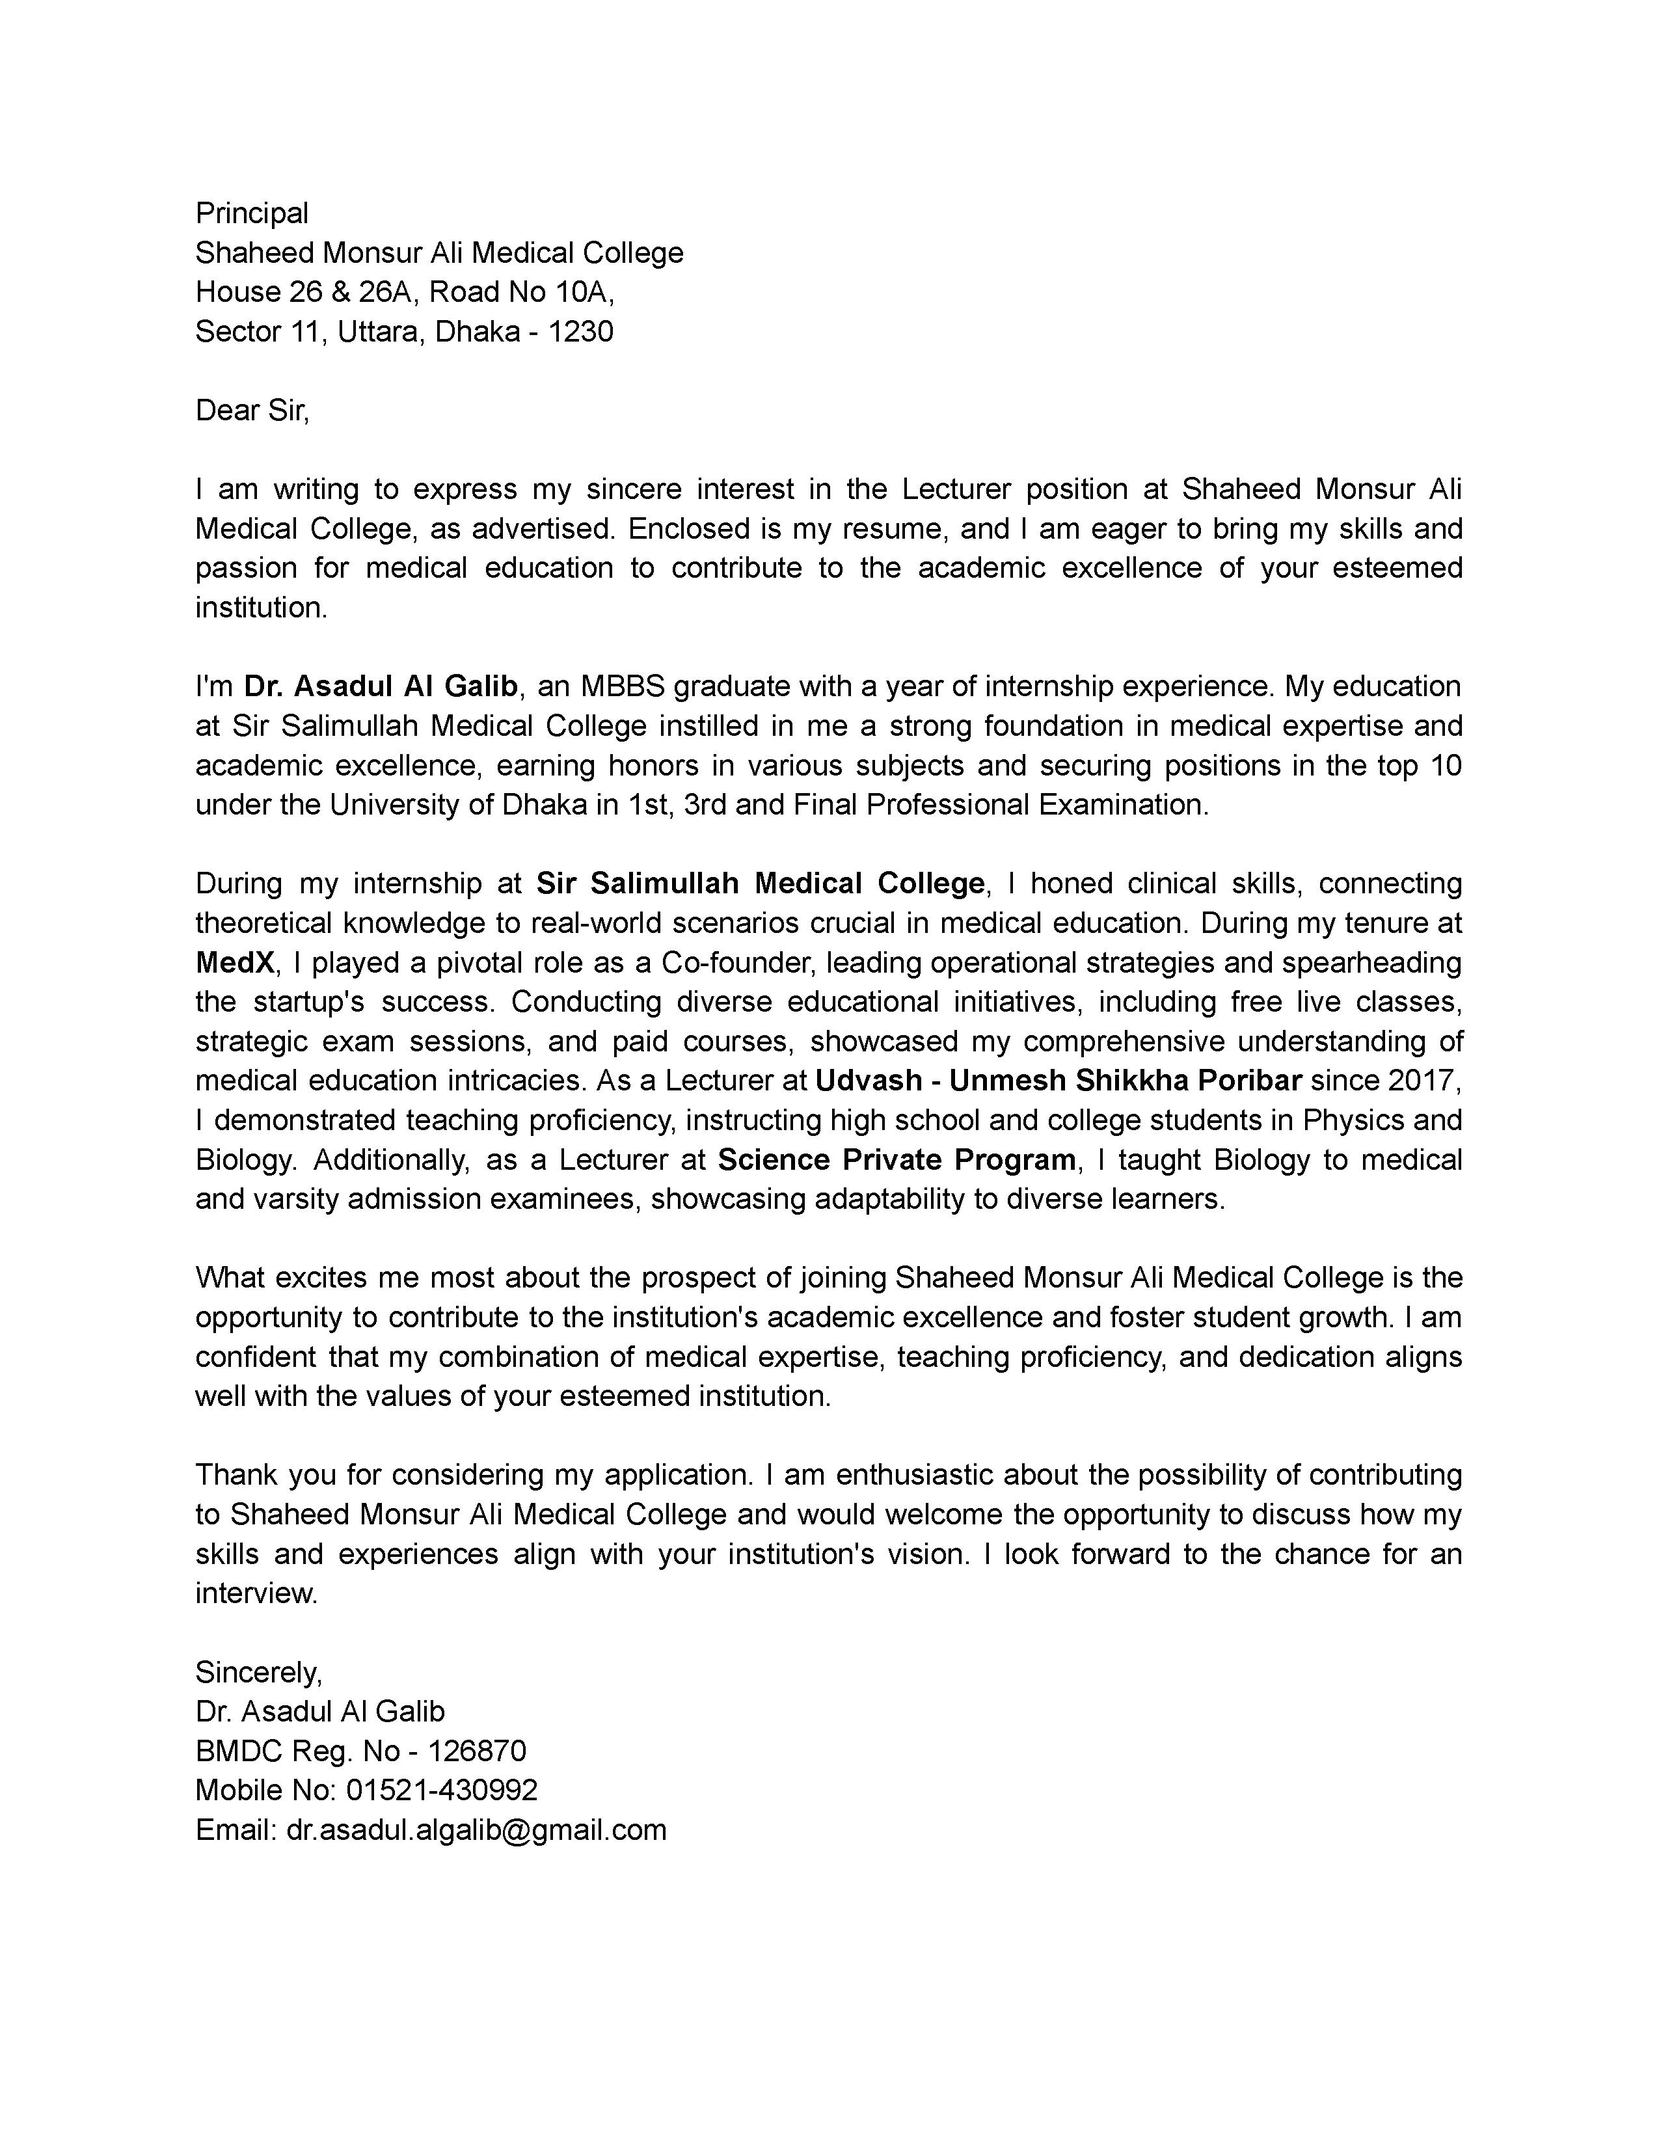
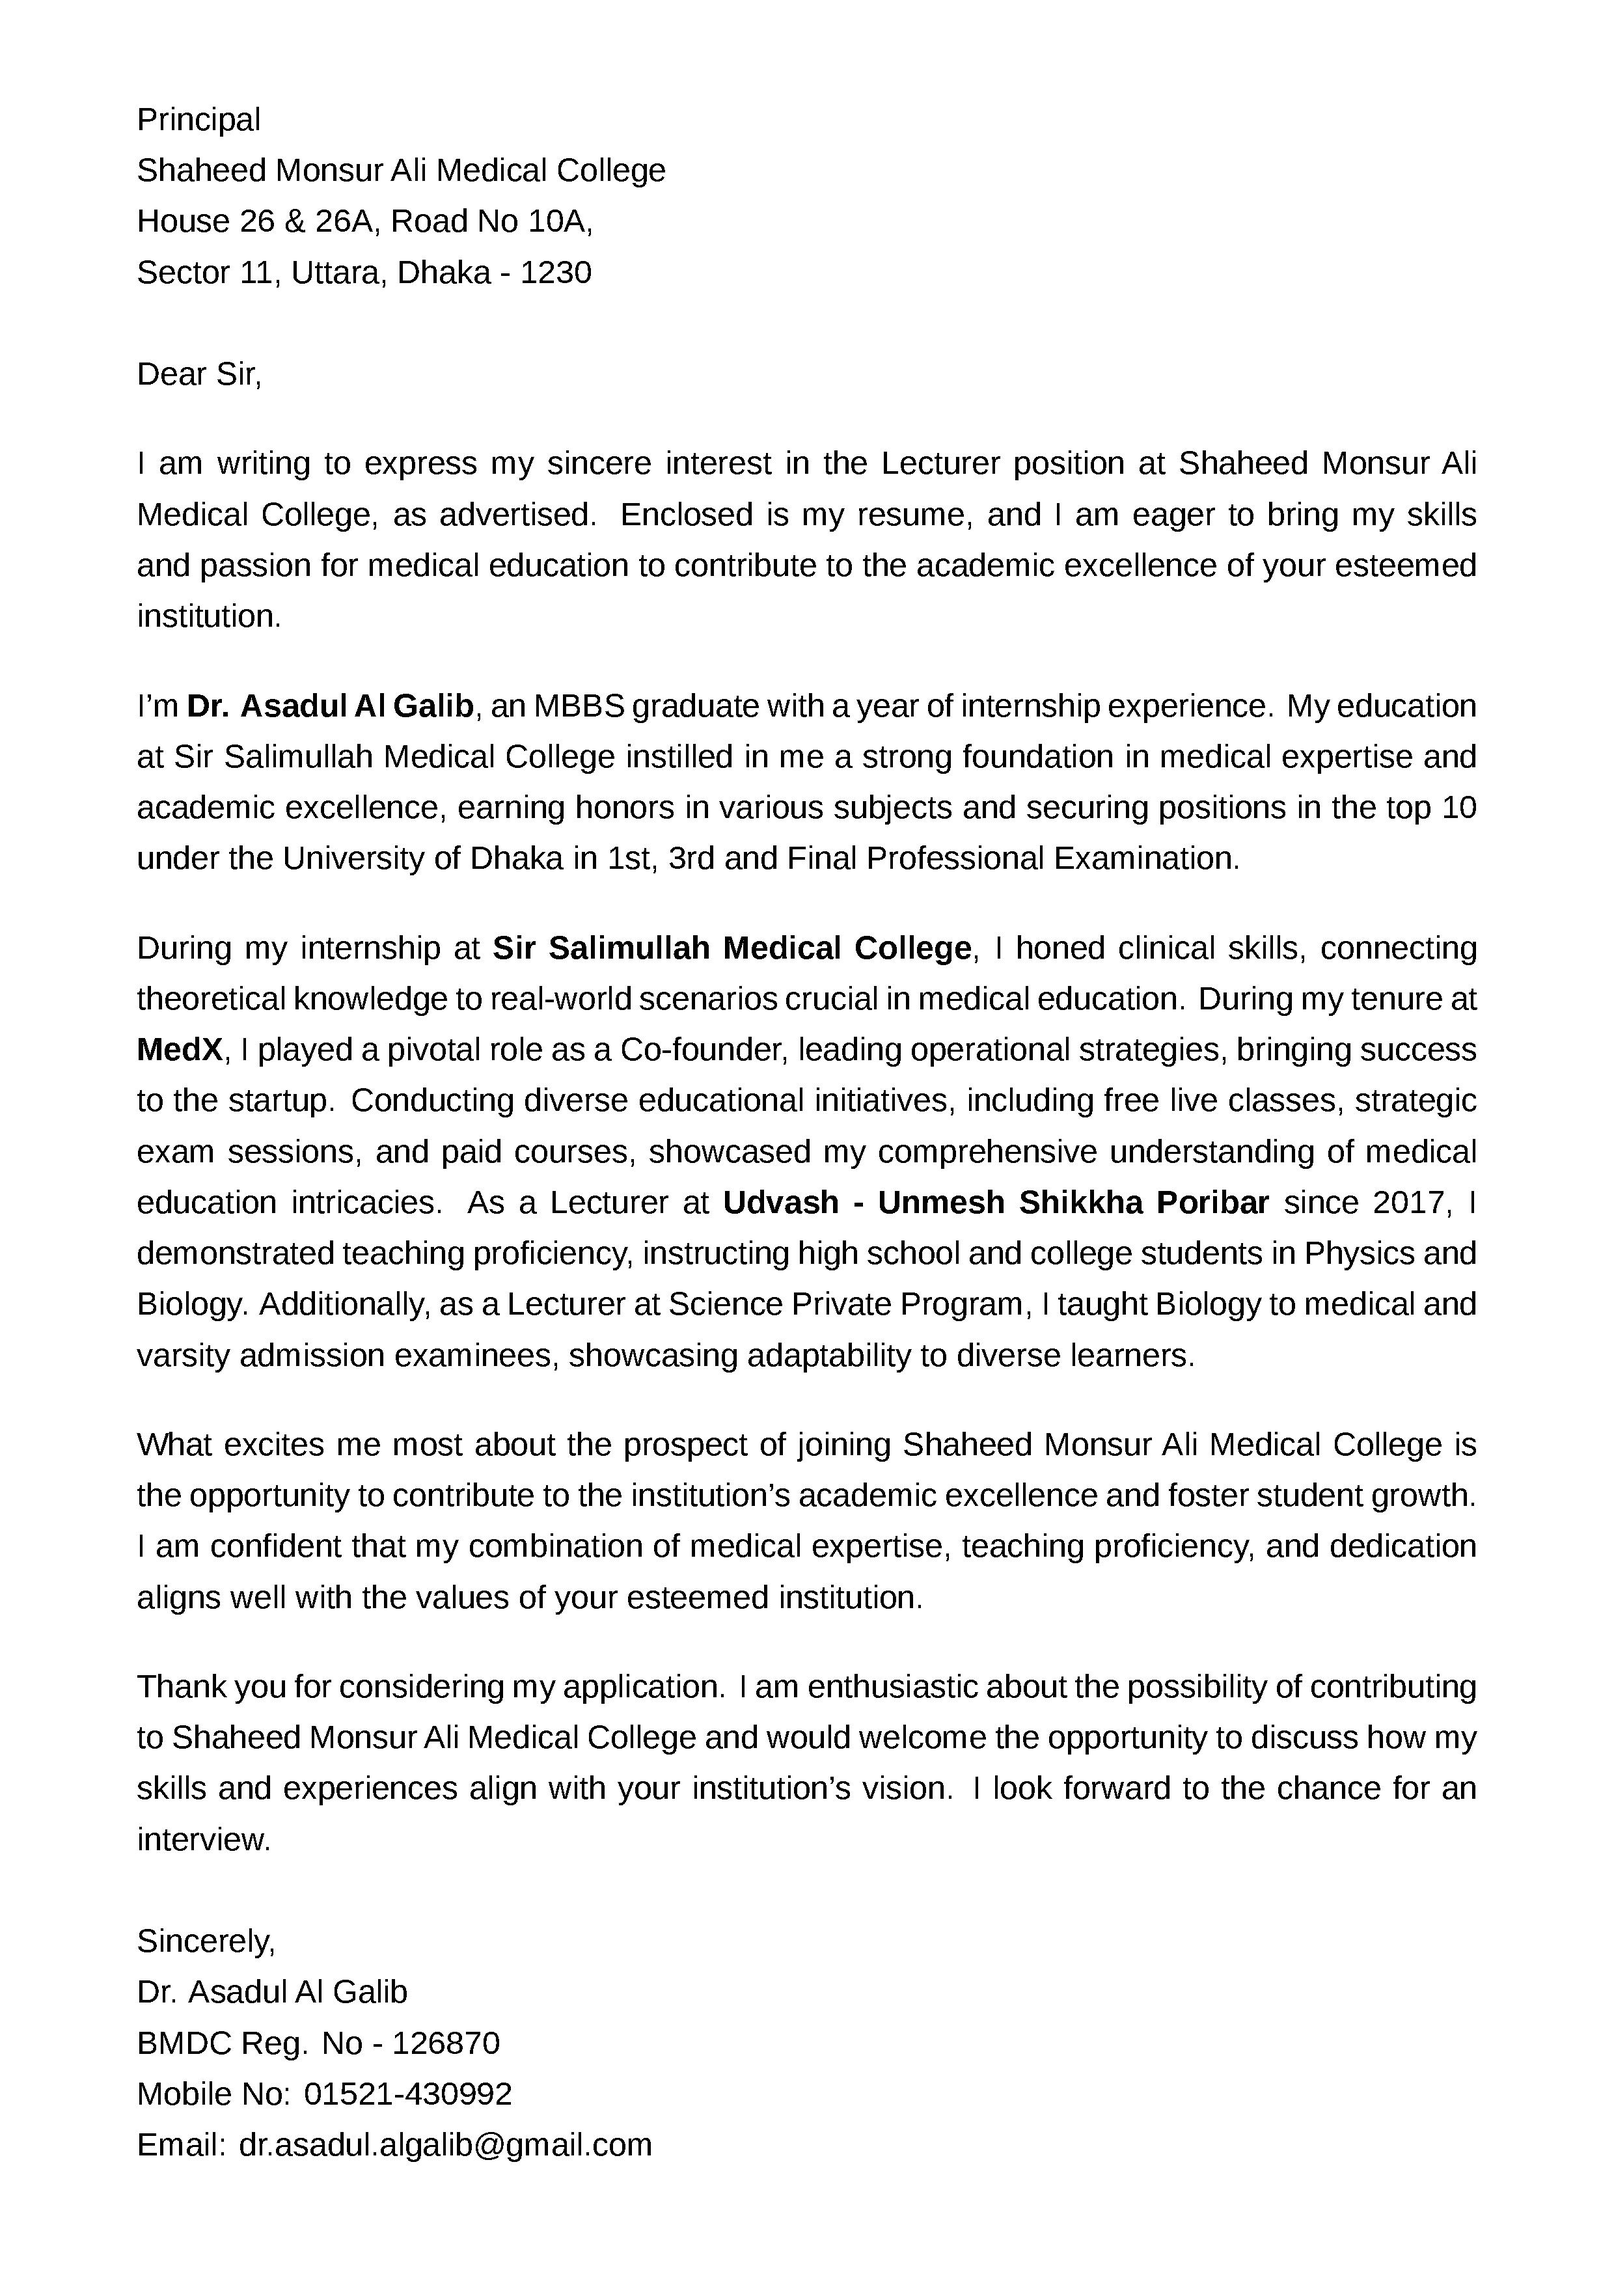
used arial font for cover letter

Changed region(s): [[0.0931, 0.0312, 0.9004, 0.9676], [0.3726, 0.9364, 0.4036, 0.9676]]

diff --git a/cover-letter-galib-lecturer.tex b/cover-letter-galib-lecturer.tex
@@ -1,7 +1,7 @@
 \documentclass[a4paper,12pt]{article}
 \usepackage[left=0.7in,right=0.7in,top=0.5in,bottom=0.5in]{geometry}
 \usepackage{fontspec}
-\setmainfont{Liberation Sans}[Scale=1.0]
+\setmainfont{Arial}[Scale=1.0]
 
 \linespread{1.3}
 \setlength{\parindent}{0pt}  % Remove first-line indent
